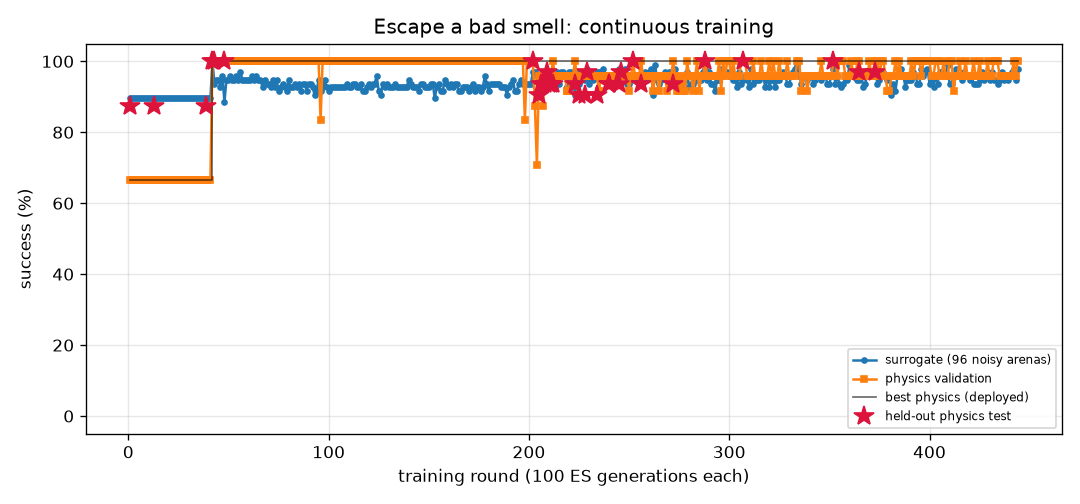
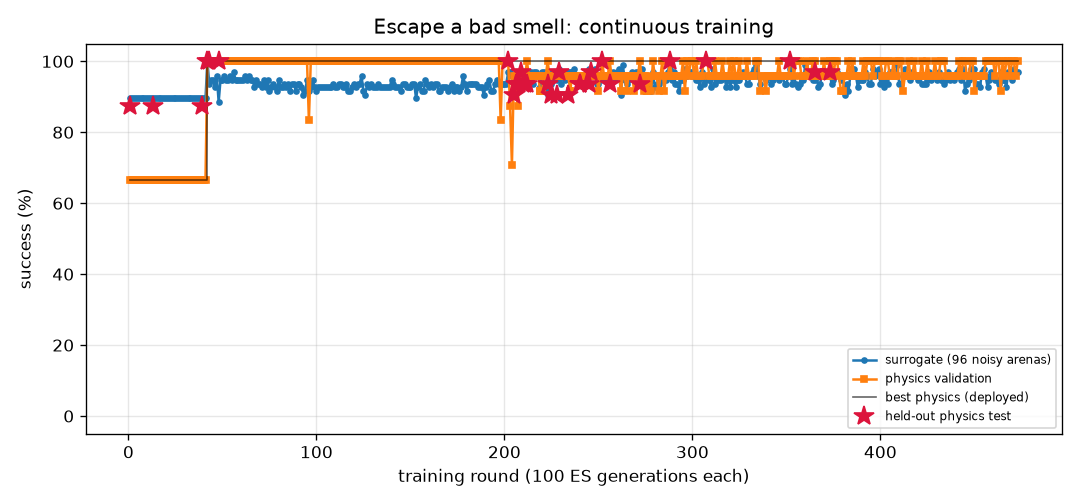
FlyLab: continuous training progress
- walk_forward: optimal, physics val 100% of 24, round 92
- turn: optimal, physics val 100% of 24, round 437
- goto: optimal, physics val 100% of 24, round 86
- odor_seek: optimal, physics val 100% of 24, round 94
- odor_avoid: optimal, physics val 100% of 24, round 473
- light_seek: optimal, physics val 100% of 24, round 275
- light_avoid: optimal, physics val 100% of 24, round 211

diff --git a/projects/09_flylab/training/odor_avoid/REPORT.md b/projects/09_flylab/training/odor_avoid/REPORT.md
@@ -1,14 +1,14 @@
 # Escape a bad smell (`odor_avoid`) — training report
 
-*Auto-generated by `train_brains.py`, last updated 2026-10-14T12:06:08.*
+*Auto-generated by `train_brains.py`, last updated 2026-10-14T21:05:49.*
 
 ![curve](curve.png)
 
 | | |
 |---|---|
-| rounds | 444 |
-| ES generations | 44400 |
-| physics runs | 7962 |
+| rounds | 473 |
+| ES generations | 47300 |
+| physics runs | 8658 |
 | status | **optimal** |
 | best brain | round 373: physics validation **100%** on 24 arenas, surrogate 97% |
 | held-out physics test | **97%** on 32 unseen arenas (95% CI 84%-99%) (errors: [62.0, 57.4, 62.6, 61.9, 59.0, 61.6, 56.5, 60.7, 31.7, 60.9, 63.1, 57.1, 61.1, 62.1, 61.5, 60.2, 62.2, 55.2, 62.1, 54.2, 61.3, 62.0, 58.0, 61.9, 59.8, 56.5, 56.3, 56.4, 56.3, 57.7, 61.9, 32.4]) |
@@ -17,35 +17,6 @@ Physics error per arena: mm gained away from source (> 6 without first approachi
 
 | round | level | gens | sigma | surrogate | physics val | val errors | test | note |
 |---:|---:|---:|---:|---:|---:|---|---:|---|
-| 405 | 3 | 40500 | 0.028 | 97% | 96% | [59.9, 56.1, 55.4, 56.2, 59.9, 61.3, 58.6, 41.0, 58.7, 53.1, 59.4, 60.6, 52.6, 56.7, 36.0, 60.3, 59.7, 60.4, 53.0, 52.2, 60.3, 59.4, 56.6, 49.8] |  | restart from best |
-| 406 | 3 | 40600 | 0.026 | 97% | 96% | [61.2, 60.7, 55.9, 60.5, 60.9, 59.6, 62.1, 13.8, 62.1, 37.7, 57.0, 61.3, 50.6, 55.2, 42.7, 60.0, 61.8, 46.0, 50.8, 59.4, 61.7, 39.8, 56.8, 45.9] |  |  |
-| 407 | 3 | 40700 | 0.026 | 96% | 100% | [60.7, 59.5, 56.0, 58.9, 60.8, 61.2, 61.8, 59.9, 61.9, 48.0, 49.0, 61.6, 49.7, 55.7, 36.5, 61.7, 61.7, 61.8, 48.9, 59.1, 61.9, 62.0, 58.9, 61.6] |  |  |
-| 408 | 3 | 40800 | 0.026 | 96% | 96% | [62.7, 60.1, 57.7, 60.9, 62.9, 61.8, 62.1, 42.1, 62.2, 39.6, 61.0, 61.4, 51.4, 58.6, 41.1, 62.3, 62.3, 62.7, 54.3, 57.1, 61.8, 61.4, 59.8, 37.7] |  |  |
-| 409 | 3 | 40900 | 0.026 | 99% | 96% | [61.4, 56.8, 56.1, 60.1, 62.2, 59.0, 61.7, 28.7, 61.5, 51.9, 56.2, 61.6, 52.2, 57.2, 24.4, 62.3, 62.0, 61.3, 51.4, 56.2, 62.1, 44.1, 60.7, 51.0] |  | restart from best |
-| 410 | 3 | 41000 | 0.026 | 94% | 100% | [61.6, 54.7, 56.6, 60.7, 61.9, 61.6, 61.8, 33.0, 61.6, 42.6, 58.1, 62.1, 54.6, 56.4, 43.6, 62.2, 61.8, 61.4, 54.2, 56.6, 61.6, 43.8, 60.8, 40.5] |  |  |
-| 411 | 3 | 41100 | 0.028 | 94% | 100% | [60.2, 55.1, 55.6, 59.2, 60.8, 60.6, 60.0, 44.3, 60.2, 46.5, 52.3, 60.5, 49.0, 55.8, 47.9, 61.2, 60.6, 60.5, 51.5, 54.7, 60.6, 52.3, 59.5, 56.6] |  |  |
-| 412 | 3 | 41200 | 0.028 | 96% | 92% | [61.1, 54.2, 55.8, 54.4, 61.0, 57.6, 60.4, 35.0, 61.1, 49.5, 20.5, 60.5, 35.1, 54.4, 18.0, 61.2, 60.8, 50.2, 45.8, 56.8, 60.6, 59.5, 58.7, 55.9] |  |  |
-| 413 | 3 | 41300 | 0.026 | 98% | 96% | [62.0, 60.6, 56.4, 61.2, 62.2, 60.9, 60.6, 49.2, 61.5, 49.6, 56.8, 61.3, 47.0, 55.6, 23.1, 62.5, 61.6, 61.5, 49.8, 59.8, 61.4, 62.4, 59.8, 61.5] |  | restart from best |
-| 414 | 3 | 41400 | 0.026 | 96% | 96% | [62.5, 61.0, 56.0, 61.5, 62.4, 61.6, 61.4, 40.8, 60.9, 56.8, 61.7, 61.9, 54.2, 53.7, 37.4, 60.6, 61.6, 60.6, 54.8, 59.9, 61.7, 56.2, 58.6, 50.1] |  |  |
-| 415 | 3 | 41500 | 0.026 | 96% | 100% | [62.4, 59.3, 56.7, 61.1, 62.0, 60.8, 61.9, 15.7, 61.9, 30.3, 60.5, 61.9, 49.7, 56.4, 42.9, 61.5, 61.6, 49.6, 55.2, 57.1, 61.7, 51.3, 59.5, 34.7] |  |  |
-| 416 | 3 | 41600 | 0.026 | 95% | 96% | [61.7, 56.7, 56.6, 59.7, 62.2, 62.2, 61.9, 37.9, 62.0, 61.3, 60.7, 61.7, 53.0, 56.2, 35.8, 60.9, 62.0, 60.6, 55.3, 56.9, 62.0, 62.2, 60.7, 59.8] |  |  |
-| 417 | 3 | 41700 | 0.027 | 97% | 96% | [60.3, 56.8, 55.8, 57.2, 59.2, 59.3, 60.5, 49.7, 59.4, 41.2, 52.1, 60.5, 49.5, 55.4, 37.3, 59.6, 60.6, 59.8, 53.1, 56.5, 60.9, 52.4, 57.6, 59.6] |  | restart from best |
-| 418 | 3 | 41800 | 0.026 | 96% | 100% | [63.5, 57.2, 57.4, 61.1, 63.0, 61.8, 61.9, 58.9, 60.6, 60.8, 61.9, 61.9, 55.0, 58.4, 46.3, 62.4, 62.0, 62.0, 55.4, 56.5, 62.5, 62.3, 57.7, 60.4] |  |  |
-| 419 | 3 | 41900 | 0.026 | 96% | 96% | [62.8, 61.6, 56.2, 59.9, 62.1, 62.1, 61.5, 26.3, 61.2, 45.1, 62.0, 62.2, 54.4, 56.3, 36.6, 62.6, 62.5, 60.3, 55.3, 60.4, 62.4, 61.3, 61.7, 44.1] |  |  |
-| 420 | 3 | 42000 | 0.026 | 95% | 96% | [63.5, 61.7, 56.9, 61.9, 60.5, 59.9, 61.7, 23.2, 61.0, 43.5, 60.3, 61.3, 51.9, 55.3, 29.7, 60.5, 61.8, 60.0, 55.1, 60.9, 61.9, 38.6, 61.2, 62.8] |  |  |
-| 421 | 3 | 42100 | 0.027 | 96% | 96% | [63.8, 61.5, 56.4, 61.8, 62.3, 62.5, 62.2, 60.6, 60.9, 61.6, 61.4, 62.5, 55.2, 56.4, 43.7, 62.0, 62.3, 62.3, 55.4, 61.7, 62.4, 60.6, 61.8, 62.9] |  | restart from best |
-| 422 | 3 | 42200 | 0.026 | 94% | 100% | [63.0, 61.1, 56.4, 55.8, 60.4, 60.0, 61.0, 60.6, 61.6, 57.2, 57.5, 61.6, 50.5, 54.1, 29.2, 62.1, 62.1, 62.0, 51.2, 59.3, 62.4, 61.2, 61.7, 62.8] |  |  |
-| 423 | 3 | 42300 | 0.028 | 94% | 96% | [63.5, 57.4, 56.3, 58.7, 60.8, 60.9, 62.3, 58.8, 59.9, 54.0, 58.5, 62.0, 53.5, 55.5, 42.1, 62.0, 61.8, 60.8, 55.3, 56.9, 61.8, 54.3, 58.4, 45.5] |  |  |
-| 424 | 3 | 42400 | 0.028 | 94% | 96% | [63.5, 57.4, 56.4, 60.8, 62.0, 61.0, 61.8, 42.2, 60.4, 56.1, 62.3, 62.2, 55.0, 56.4, 48.1, 62.3, 62.2, 60.5, 55.5, 56.1, 62.4, 61.9, 61.2, 50.1] |  |  |
-| 425 | 3 | 42500 | 0.028 | 95% | 100% | [63.4, 61.5, 56.2, 61.4, 61.3, 61.5, 61.5, 62.6, 61.2, 60.9, 35.1, 61.8, 49.3, 55.6, 15.8, 62.4, 62.0, 49.4, 51.5, 56.9, 62.0, 62.0, 61.4, 62.6] |  | restart from best |
-| 426 | 3 | 42600 | 0.026 | 97% | 96% | [62.1, 60.9, 56.3, 60.4, 61.6, 62.5, 60.7, 45.2, 61.9, 39.8, 61.0, 62.1, 51.8, 55.8, 37.5, 62.0, 61.8, 62.6, 55.2, 59.5, 61.8, 53.4, 59.9, 61.6] |  |  |
-| 427 | 3 | 42700 | 0.026 | 95% | 96% | [62.8, 60.0, 56.1, 61.1, 62.4, 61.2, 61.3, 1.5, 61.1, 57.3, 60.7, 61.9, 51.6, 56.2, 39.3, 61.7, 61.7, 61.3, 51.9, 56.9, 61.8, 39.0, 59.0, 14.9] |  |  |
-| 428 | 3 | 42800 | 0.027 | 96% | 96% | [63.6, 59.6, 55.7, 61.6, 62.9, 61.5, 61.5, 59.7, 61.7, 61.7, 62.0, 62.0, 52.1, 55.7, 42.7, 62.1, 61.8, 61.7, 55.0, 57.4, 62.2, 62.6, 61.6, 61.9] |  |  |
-| 429 | 3 | 42900 | 0.026 | 96% | 100% | [62.7, 58.7, 56.4, 61.2, 62.3, 62.0, 61.2, 40.6, 60.8, 58.1, 60.9, 61.7, 50.3, 56.0, 47.7, 62.5, 61.8, 62.1, 54.1, 57.1, 61.8, 60.6, 60.9, 61.1] |  | restart from best |
-| 430 | 3 | 43000 | 0.026 | 95% | 96% | [63.3, 57.6, 58.1, 58.7, 59.7, 48.7, 61.6, 32.0, 60.4, 50.6, 23.6, 60.6, 51.2, 55.6, 44.9, 58.1, 61.1, 49.9, 51.7, 56.5, 61.1, 53.2, 58.9, 33.4] |  |  |
-| 431 | 3 | 43100 | 0.027 | 97% | 96% | [61.2, 60.6, 56.4, 59.6, 60.7, 60.0, 60.1, 49.9, 61.3, 40.9, 56.5, 60.4, 52.5, 57.7, 25.7, 60.5, 60.9, 60.5, 54.3, 58.6, 61.2, 62.0, 59.2, 62.4] |  |  |
-| 432 | 3 | 43200 | 0.026 | 95% | 100% | [61.6, 60.4, 55.5, 55.4, 56.7, 45.2, 60.3, 57.7, 60.7, 53.0, 51.3, 60.4, 51.8, 56.3, 37.7, 56.0, 60.4, 52.9, 54.5, 58.5, 60.4, 57.0, 60.8, 61.3] |  |  |
-| 433 | 3 | 43300 | 0.027 | 95% | 100% | [61.0, 56.0, 55.7, 56.1, 60.8, 60.0, 60.2, 44.0, 60.5, 47.2, 60.4, 60.3, 54.2, 56.0, 29.0, 55.0, 61.1, 42.3, 54.4, 56.1, 60.2, 49.7, 60.1, 47.2] |  | restart from best |
 | 434 | 3 | 43400 | 0.026 | 94% | 100% | [63.4, 56.8, 57.3, 57.5, 62.3, 61.3, 61.8, 45.0, 60.8, 60.7, 61.6, 62.1, 54.7, 57.6, 45.7, 62.3, 62.2, 62.3, 54.7, 56.6, 62.1, 62.0, 57.8, 60.3] |  |  |
 | 435 | 3 | 43500 | 0.028 | 95% | 96% | [62.9, 57.5, 58.5, 60.4, 61.0, 61.1, 62.2, 42.4, 59.9, 37.9, 24.3, 60.6, 51.2, 55.4, 39.5, 61.5, 61.4, 59.4, 54.5, 57.9, 60.6, 62.1, 58.2, 62.7] |  |  |
 | 436 | 3 | 43600 | 0.027 | 97% | 96% | [62.5, 57.3, 57.4, 57.3, 60.1, 52.6, 61.2, 43.6, 59.0, 57.9, 23.7, 59.9, 49.4, 56.7, 37.6, 61.6, 59.3, 60.8, 50.4, 56.1, 59.8, 54.5, 57.4, 53.2] |  |  |
@@ -57,3 +28,32 @@ Physics error per arena: mm gained away from source (> 6 without first approachi
 | 442 | 3 | 44200 | 0.026 | 98% | 100% | [62.6, 59.0, 56.4, 59.3, 62.9, 61.8, 61.8, 39.2, 60.9, 59.9, 62.4, 62.0, 55.2, 56.4, 49.7, 62.4, 62.0, 61.6, 55.1, 56.4, 62.1, 62.0, 58.8, 53.2] |  |  |
 | 443 | 3 | 44300 | 0.025 | 95% | 96% | [63.1, 61.5, 56.3, 59.6, 62.9, 61.7, 61.4, 46.9, 61.3, 60.2, 61.8, 62.1, 51.5, 56.5, 45.9, 62.7, 62.5, 61.2, 54.8, 59.2, 62.1, 62.6, 59.2, 61.8] |  |  |
 | 444 | 3 | 44400 | 0.027 | 98% | 100% | [62.2, 60.5, 56.0, 60.9, 62.3, 61.9, 60.8, 49.0, 60.9, 59.3, 61.6, 61.6, 54.7, 55.7, 48.8, 62.4, 62.0, 62.3, 55.3, 56.8, 61.7, 62.0, 59.2, 59.7] |  |  |
+| 445 | 3 | 44500 | 0.025 | 92% | 100% | [60.1, 55.8, 57.2, 59.3, 61.0, 60.9, 59.9, 59.0, 59.3, 60.9, 61.6, 60.8, 54.8, 58.0, 50.8, 61.2, 60.9, 60.6, 55.1, 55.8, 60.9, 61.4, 56.8, 60.3] |  | restart from best |
+| 446 | 3 | 44600 | 0.026 | 94% | 96% | [63.4, 57.3, 57.8, 61.3, 62.1, 60.8, 60.7, 40.6, 61.1, 55.9, 61.9, 60.6, 51.9, 58.7, 41.4, 60.9, 61.5, 60.4, 55.3, 59.5, 61.4, 58.6, 59.7, 51.7] |  |  |
+| 447 | 3 | 44700 | 0.028 | 95% | 96% | [63.5, 61.7, 57.3, 56.3, 61.2, 61.6, 60.8, 52.9, 61.1, 59.8, 62.0, 61.1, 52.1, 56.3, 45.0, 62.6, 61.6, 62.5, 55.0, 58.9, 61.7, 61.6, 59.4, 62.6] |  |  |
+| 448 | 3 | 44800 | 0.027 | 98% | 100% | [63.0, 58.1, 58.4, 58.7, 61.8, 62.4, 61.5, 57.1, 60.0, 61.3, 62.0, 61.3, 54.6, 55.9, 43.4, 61.5, 61.6, 62.5, 55.3, 54.8, 61.1, 61.7, 57.7, 60.7] |  |  |
+| 449 | 3 | 44900 | 0.025 | 96% | 100% | [63.6, 59.6, 57.8, 59.4, 61.9, 63.0, 61.0, 59.1, 61.2, 62.6, 62.4, 61.8, 54.7, 58.8, 46.4, 62.5, 61.5, 62.4, 55.5, 58.4, 61.5, 62.9, 59.3, 60.8] |  | restart from best |
+| 450 | 3 | 45000 | 0.026 | 98% | 92% | [62.9, 57.3, 55.8, 58.5, 61.6, 57.3, 61.2, 2.8, 60.6, 9.6, 61.7, 61.8, 54.8, 55.7, 27.0, 61.5, 61.6, 60.6, 55.2, 55.6, 61.5, 42.2, 57.9, 4.8] |  |  |
+| 451 | 3 | 45100 | 0.025 | 94% | 96% | [63.1, 61.5, 55.8, 61.2, 61.7, 61.1, 61.6, 63.1, 61.0, 55.4, 47.3, 62.1, 47.3, 53.9, 31.0, 61.0, 61.6, 60.3, 53.7, 61.4, 62.1, 63.0, 59.7, 63.1] |  |  |
+| 452 | 3 | 45200 | 0.028 | 94% | 96% | [62.6, 55.9, 57.7, 56.7, 60.9, 61.2, 60.7, 52.1, 59.4, 50.4, 60.1, 59.9, 52.7, 55.4, 25.3, 60.6, 60.8, 60.5, 54.1, 57.2, 60.1, 44.3, 58.0, 51.8] |  |  |
+| 453 | 3 | 45300 | 0.028 | 93% | 96% | [63.4, 60.4, 58.4, 57.9, 60.6, 62.2, 61.4, 58.0, 60.4, 57.7, 58.7, 59.7, 50.8, 57.6, 40.3, 62.1, 60.5, 61.8, 54.8, 57.5, 59.9, 59.0, 57.6, 61.7] |  | restart from best |
+| 454 | 3 | 45400 | 0.026 | 97% | 96% | [64.0, 61.2, 56.3, 58.7, 62.2, 62.7, 62.9, 60.5, 60.9, 61.9, 62.2, 62.1, 55.0, 56.3, 38.5, 62.0, 62.3, 61.9, 56.0, 57.5, 62.5, 62.2, 56.7, 60.7] |  |  |
+| 455 | 3 | 45500 | 0.026 | 98% | 96% | [62.9, 60.6, 56.2, 58.8, 61.8, 61.1, 61.4, 32.2, 60.8, 45.0, 61.7, 62.2, 55.0, 55.8, 46.2, 62.2, 62.1, 39.5, 55.1, 60.4, 61.8, 36.3, 58.5, 45.2] |  |  |
+| 456 | 3 | 45600 | 0.025 | 96% | 100% | [62.2, 60.1, 56.7, 60.6, 62.0, 60.1, 61.6, 54.4, 62.0, 37.0, 61.1, 61.9, 55.0, 56.5, 50.4, 62.5, 62.1, 62.2, 55.4, 56.8, 62.3, 62.2, 60.7, 61.8] |  |  |
+| 457 | 3 | 45700 | 0.026 | 93% | 100% | [60.8, 59.3, 52.1, 58.4, 60.1, 60.8, 61.0, 59.1, 61.4, 59.3, 55.1, 59.1, 24.3, 49.3, 40.9, 56.9, 37.9, 55.6, 44.1, 59.1, 54.9, 60.5, 58.7, 59.2] |  | restart from best |
+| 458 | 3 | 45800 | 0.026 | 95% | 100% | [61.6, 60.3, 56.8, 60.7, 61.6, 60.4, 60.5, 59.8, 61.6, 52.8, 60.5, 61.3, 54.6, 57.6, 50.6, 61.5, 61.6, 61.7, 54.9, 60.0, 61.9, 61.5, 56.9, 61.9] |  |  |
+| 459 | 3 | 45900 | 0.027 | 97% | 100% | [63.2, 61.4, 57.9, 61.7, 61.6, 60.8, 62.0, 53.1, 60.7, 61.1, 62.4, 62.1, 54.8, 55.8, 42.5, 61.8, 62.2, 62.5, 55.1, 60.1, 62.0, 60.0, 61.5, 59.5] |  |  |
+| 460 | 3 | 46000 | 0.026 | 96% | 100% | [62.5, 61.1, 56.2, 57.1, 62.4, 62.2, 61.5, 54.2, 62.2, 52.5, 57.8, 61.4, 51.1, 55.0, 39.3, 60.9, 62.2, 61.5, 54.7, 59.6, 61.8, 62.1, 61.4, 56.7] |  |  |
+| 461 | 3 | 46100 | 0.026 | 95% | 96% | [62.2, 60.1, 56.0, 61.3, 62.5, 61.7, 61.8, 60.8, 62.2, 61.7, 61.9, 62.5, 55.0, 56.0, 48.9, 63.0, 62.5, 62.8, 55.5, 56.6, 62.5, 61.6, 60.4, 62.5] |  | restart from best |
+| 462 | 3 | 46200 | 0.026 | 95% | 100% | [60.6, 56.2, 57.7, 59.7, 61.9, 59.6, 60.5, 39.5, 61.0, 61.1, 60.1, 61.2, 54.4, 57.9, 48.0, 61.0, 61.9, 61.7, 54.2, 55.9, 60.6, 60.8, 58.3, 38.7] |  |  |
+| 463 | 3 | 46300 | 0.027 | 94% | 100% | [60.4, 53.3, 55.8, 53.7, 59.2, 59.5, 60.1, 56.7, 60.1, 59.7, 56.5, 60.6, 49.2, 53.2, 29.4, 56.1, 60.8, 58.4, 48.9, 52.4, 61.0, 58.4, 57.8, 57.1] |  |  |
+| 464 | 3 | 46400 | 0.028 | 97% | 92% | [60.3, 59.0, 55.9, 59.6, 60.7, 62.1, 61.1, 39.1, 60.9, 61.5, 60.2, 61.0, 50.5, 56.0, 44.0, 61.9, 61.5, 62.1, 54.6, 57.9, 61.3, 60.4, 56.8, 60.4] |  |  |
+| 465 | 3 | 46500 | 0.026 | 95% | 100% | [60.1, 58.1, 55.3, 56.4, 58.2, 57.5, 60.5, 58.8, 60.2, 55.7, 27.3, 60.4, 46.1, 52.8, 35.9, 60.1, 60.2, 56.4, 49.0, 56.9, 60.5, 58.3, 55.0, 58.5] |  | restart from best |
+| 466 | 3 | 46600 | 0.026 | 95% | 96% | [62.6, 61.2, 55.8, 61.5, 61.8, 60.4, 60.8, 43.0, 61.1, 44.4, 61.9, 61.9, 54.9, 56.0, 41.0, 61.8, 61.9, 61.7, 55.1, 60.1, 62.0, 50.5, 59.3, 35.0] |  |  |
+| 467 | 3 | 46700 | 0.027 | 93% | 100% | [62.7, 58.2, 55.9, 60.5, 62.3, 61.6, 61.2, 60.9, 60.5, 60.9, 62.0, 62.0, 55.0, 56.6, 52.3, 61.8, 62.3, 61.3, 55.6, 56.7, 62.3, 60.9, 57.9, 61.7] |  |  |
+| 468 | 3 | 46800 | 0.028 | 97% | 100% | [63.7, 61.2, 56.2, 61.4, 62.2, 59.4, 62.0, 34.0, 59.9, 56.5, 61.4, 62.1, 52.4, 53.8, 46.1, 60.6, 61.9, 59.0, 54.9, 59.8, 62.3, 36.1, 58.5, 50.6] |  |  |
+| 469 | 3 | 46900 | 0.026 | 96% | 96% | [63.4, 58.4, 58.6, 61.2, 62.0, 60.6, 61.8, 55.5, 59.9, 58.6, 61.8, 61.0, 54.3, 55.5, 41.1, 60.8, 61.6, 60.6, 55.1, 60.0, 61.1, 59.9, 60.9, 54.7] |  | restart from best |
+| 470 | 3 | 47000 | 0.026 | 95% | 100% | [63.5, 59.0, 56.1, 59.1, 61.9, 62.1, 61.7, 47.9, 60.7, 58.0, 62.0, 62.4, 54.2, 56.7, 43.4, 60.7, 62.4, 60.7, 55.4, 60.0, 62.0, 46.6, 56.0, 38.0] |  |  |
+| 471 | 3 | 47100 | 0.027 | 98% | 100% | [63.7, 61.2, 56.0, 58.7, 61.6, 62.1, 62.2, 57.3, 60.8, 60.6, 62.6, 61.9, 55.1, 58.1, 41.3, 62.5, 61.8, 62.2, 55.3, 56.0, 61.9, 60.6, 58.8, 54.7] |  |  |
+| 472 | 3 | 47200 | 0.025 | 97% | 96% | [63.1, 61.7, 53.0, 61.4, 62.1, 62.8, 61.8, 63.5, 61.6, 62.9, 31.6, 61.4, 50.5, 54.9, 40.4, 62.4, 61.7, 62.5, 53.3, 61.1, 61.3, 63.3, 61.6, 63.6] |  |  |
+| 473 | 3 | 47300 | 0.026 | 97% | 100% | [62.5, 61.0, 55.6, 60.5, 61.9, 62.6, 62.3, 63.2, 62.4, 62.5, 53.8, 61.6, 47.0, 55.8, 34.8, 62.2, 61.9, 57.3, 50.3, 60.8, 61.8, 62.8, 60.5, 63.1] |  | restart from best |

diff --git a/projects/09_flylab/training/turn/REPORT.md b/projects/09_flylab/training/turn/REPORT.md
@@ -1,14 +1,14 @@
 # Turn in place (`turn`) — training report
 
-*Auto-generated by `train_brains.py`, last updated 2026-10-14T12:07:45.*
+*Auto-generated by `train_brains.py`, last updated 2026-10-14T21:08:26.*
 
 ![curve](curve.png)
 
 | | |
 |---|---|
-| rounds | 409 |
-| ES generations | 40900 |
-| physics runs | 10062 |
+| rounds | 437 |
+| ES generations | 43700 |
+| physics runs | 10734 |
 | status | **optimal** |
 | best brain | round 80: physics validation **100%** on 24 arenas, surrogate 100% |
 | held-out physics test | **97%** on 32 unseen arenas (95% CI 84%-99%) (errors: [1.6, 3.3, 6.3, 3.7, 1.1, 0.4, 2.4, 2.9, 0.1, 2.6, 0.5, 2.7, 1.5, 3.1, 4.5, 0.2, 0.5, 1.1, 2.0, 4.4, 2.8, 3.2, 0.3, 2.2, 0.5, 3.0, 0.3, 5.4, 0.4, 1.0, 4.7, 10.7]) |
@@ -17,34 +17,6 @@ Physics error per arena: deg from target heading (< 20 = success).
 
 | round | level | gens | sigma | surrogate | physics val | val errors | test | note |
 |---:|---:|---:|---:|---:|---:|---|---:|---|
-| 370 | 3 | 37000 | 0.024 | 100% | 96% | [6.6, 3.5, 13.4, 0.9, 1.9, 0.1, 4.8, 8.0, 6.6, 1.1, 3.6, 2.5, 1.4, 1.9, 5.0, 2.5, 1.9, 1.4, 2.4, 1.4, 3.3, 2.7, 4.5, 2.1] |  |  |
-| 371 | 3 | 37100 | 0.024 | 100% | 92% | [2.4, 4.6, 3.4, 1.7, 1.9, 2.9, 4.3, 4.9, 3.6, 0.5, 4.1, 1.5, 1.6, 2.4, 3.2, 3.5, 1.6, 2.6, 5.5, 1.4, 3.9, 1.1, 8.1, 4.9] |  |  |
-| 372 | 3 | 37200 | 0.024 | 99% | 79% | [2.2, 0.5, 5.0, 0.1, 1.5, 0.5, 6.1, 9.9, 5.6, 14.5, 4.6, 0.3, 0.1, 2.0, 5.1, 1.5, 0.1, 3.3, 3.3, 2.1, 3.3, 3.0, 6.0, 4.4] |  | restart from best |
-| 373 | 3 | 37300 | 0.024 | 99% | 75% | [5.5, 3.8, 1.4, 1.9, 0.4, 0.4, 7.8, 8.5, 8.4, 0.0, 6.0, 1.9, 0.6, 0.7, 7.0, 4.2, 0.9, 4.6, 3.4, 2.1, 3.3, 2.1, 7.3, 6.8] |  |  |
-| 374 | 3 | 37400 | 0.025 | 100% | 83% | [1.1, 7.0, 9.1, 4.1, 4.3, 114.4, 8.3, 11.0, 11.0, 1.2, 8.0, 1.5, 4.2, 1.5, 6.9, 4.7, 2.2, 5.6, 4.5, 3.7, 1.3, 2.2, 8.6, 9.4] |  |  |
-| 375 | 3 | 37500 | 0.024 | 99% | 92% | [7.5, 5.7, 1.9, 1.9, 0.2, 2.7, 5.0, 1.3, 5.3, 1.1, 3.0, 0.3, 2.3, 1.6, 4.9, 2.1, 0.2, 1.3, 2.3, 3.9, 4.6, 1.8, 3.2, 5.7] |  |  |
-| 376 | 3 | 37600 | 0.025 | 99% | 92% | [2.3, 3.5, 7.5, 2.4, 1.9, 1.0, 9.1, 10.8, 7.7, 3.5, 6.4, 3.7, 2.5, 1.1, 4.8, 5.7, 3.8, 3.2, 5.5, 4.7, 2.5, 2.8, 7.2, 6.2] |  | restart from best |
-| 377 | 3 | 37700 | 0.024 | 99% | 58% | [5.9, 7.9, 4.6, 3.4, 3.8, 5.2, 3.5, 3.2, 4.0, 0.2, 1.9, 1.9, 1.6, 2.4, 2.7, 2.2, 2.9, 0.3, 2.0, 2.4, 7.6, 1.1, 2.8, 3.0] |  |  |
-| 378 | 3 | 37800 | 0.025 | 100% | 96% | [6.5, 10.2, 4.0, 2.6, 3.0, 0.2, 3.7, 2.3, 2.7, 2.7, 2.6, 3.0, 1.3, 4.3, 2.5, 1.8, 2.8, 0.0, 2.7, 2.2, 4.3, 1.5, 3.2, 6.0] |  |  |
-| 379 | 3 | 37900 | 0.024 | 99% | 83% | [0.8, 1.8, 3.9, 2.7, 4.2, 1.5, 5.5, 8.9, 4.1, 0.4, 5.2, 1.9, 0.8, 2.1, 4.5, 1.3, 1.3, 1.5, 3.5, 2.7, 5.2, 2.4, 5.6, 5.3] |  |  |
-| 380 | 3 | 38000 | 0.025 | 99% | 79% | [2.8, 2.7, 5.5, 0.2, 1.1, 0.5, 7.3, 5.8, 7.2, 0.1, 4.4, 0.7, 1.6, 2.5, 5.3, 1.0, 0.8, 2.6, 0.9, 1.7, 1.5, 0.5, 6.2, 5.3] |  | restart from best |
-| 381 | 3 | 38100 | 0.024 | 100% | 79% | [7.4, 5.5, 7.9, 2.1, 2.3, 2.7, 5.5, 0.2, 4.5, 0.6, 3.7, 1.1, 0.1, 0.8, 3.7, 1.1, 2.0, 0.7, 0.6, 1.0, 6.0, 1.2, 5.6, 1.7] |  |  |
-| 382 | 3 | 38200 | 0.024 | 99% | 79% | [4.8, 2.8, 4.9, 0.4, 0.5, 1.4, 5.6, 5.4, 4.8, 1.3, 4.6, 1.4, 1.1, 3.4, 3.8, 1.0, 1.4, 0.9, 1.0, 0.1, 6.8, 0.6, 3.3, 3.8] |  |  |
-| 383 | 3 | 38300 | 0.025 | 100% | 83% | [0.7, 5.2, 9.2, 1.1, 4.5, 0.6, 6.6, 10.3, 9.6, 0.8, 5.8, 2.4, 1.5, 0.3, 5.9, 3.6, 2.4, 4.0, 4.5, 3.4, 3.5, 3.9, 8.9, 6.2] |  |  |
-| 384 | 3 | 38400 | 0.024 | 100% | 96% | [2.2, 2.1, 2.1, 2.4, 0.7, 5.0, 6.6, 9.0, 6.4, 12.1, 3.9, 3.4, 1.2, 0.2, 2.6, 2.2, 3.3, 3.1, 1.8, 10.7, 3.2, 1.0, 6.9, 3.1] |  | restart from best |
-| 385 | 3 | 38500 | 0.024 | 99% | 79% | [5.1, 5.6, 0.5, 3.4, 1.6, 0.4, 3.6, 3.6, 3.4, 0.5, 4.2, 0.1, 2.4, 2.2, 4.0, 0.2, 0.2, 1.4, 0.5, 0.5, 6.0, 0.3, 3.9, 3.9] |  |  |
-| 386 | 3 | 38600 | 0.025 | 98% | 83% | [1.9, 1.9, 0.1, 3.3, 2.5, 4.4, 5.7, 3.6, 5.7, 0.0, 5.7, 0.9, 2.1, 1.0, 7.2, 4.4, 0.0, 1.7, 3.2, 4.3, 5.7, 0.9, 3.9, 5.2] |  |  |
-| 387 | 3 | 38700 | 0.025 | 98% | 75% | [5.6, 1.1, 5.5, 0.2, 2.1, 3.4, 7.9, 2.3, 8.3, 2.4, 5.3, 1.0, 2.4, 1.1, 6.5, 0.8, 1.4, 1.7, 2.3, 3.3, 6.9, 0.4, 6.6, 2.8] |  |  |
-| 388 | 3 | 38800 | 0.025 | 99% | 92% | [2.0, 2.7, 1.6, 0.9, 1.3, 2.7, 6.1, 7.1, 5.9, 1.3, 5.2, 2.2, 2.8, 0.8, 4.5, 0.5, 1.8, 0.6, 1.0, 0.7, 1.2, 1.9, 6.3, 2.6] |  | restart from best |
-| 389 | 3 | 38900 | 0.024 | 100% | 83% | [3.9, 3.2, 2.3, 1.7, 2.6, 2.3, 4.4, 0.4, 4.6, 14.7, 4.3, 1.3, 1.4, 3.0, 4.8, 0.2, 0.7, 2.2, 0.1, 1.5, 3.9, 0.9, 5.6, 6.0] |  |  |
-| 390 | 3 | 39000 | 0.024 | 100% | 92% | [6.1, 8.9, 1.9, 4.7, 6.2, 1.2, 2.4, 2.4, 1.9, 3.3, 0.7, 3.6, 4.4, 2.3, 2.5, 1.6, 3.2, 0.9, 1.9, 1.8, 4.3, 1.0, 0.7, 3.2] |  |  |
-| 391 | 3 | 39100 | 0.024 | 100% | 75% | [5.1, 5.5, 11.6, 0.5, 0.4, 5.5, 8.6, 7.3, 10.2, 2.9, 6.4, 4.0, 1.2, 1.0, 5.0, 4.4, 4.5, 6.3, 4.1, 4.1, 1.4, 3.4, 9.8, 10.3] |  |  |
-| 392 | 3 | 39200 | 0.024 | 98% | 75% | [4.2, 6.6, 10.3, 1.7, 1.1, 0.6, 9.0, 6.3, 10.5, 2.7, 7.2, 3.6, 1.9, 0.5, 6.6, 15.1, 3.0, 6.1, 15.3, 7.6, 4.6, 2.8, 9.6, 6.9] |  | restart from best |
-| 393 | 3 | 39300 | 0.024 | 100% | 92% | [3.8, 5.1, 4.6, 3.3, 0.0, 18.4, 4.6, 4.4, 6.1, 0.4, 5.1, 0.1, 1.4, 1.4, 3.9, 1.1, 0.1, 1.5, 2.3, 1.3, 5.6, 0.9, 5.6, 1.0] |  |  |
-| 394 | 3 | 39400 | 0.024 | 99% | 75% | [1.2, 3.3, 4.1, 0.3, 0.8, 4.1, 3.1, 6.8, 7.1, 1.9, 5.8, 2.5, 0.5, 0.1, 5.6, 0.1, 1.7, 2.5, 1.2, 1.0, 6.9, 1.4, 4.3, 4.9] |  |  |
-| 395 | 3 | 39500 | 0.025 | 100% | 96% | [2.9, 1.1, 1.8, 1.3, 0.5, 1.6, 6.7, 8.0, 6.2, 2.5, 4.7, 3.2, 0.6, 1.0, 5.1, 1.7, 3.3, 3.5, 1.8, 2.2, 2.2, 3.1, 7.7, 9.3] |  |  |
-| 396 | 3 | 39600 | 0.024 | 99% | 79% | [4.2, 7.3, 11.2, 4.5, 15.3, 0.5, 8.5, 10.2, 8.6, 2.2, 5.9, 4.0, 3.7, 1.1, 5.5, 4.2, 4.5, 6.3, 5.1, 4.2, 3.8, 3.7, 8.9, 10.8] |  | restart from best |
-| 397 | 3 | 39700 | 0.024 | 99% | 83% | [2.4, 13.0, 4.0, 0.4, 14.8, 3.8, 7.7, 8.6, 6.5, 14.7, 5.7, 2.0, 0.2, 0.7, 4.1, 1.7, 2.2, 1.9, 1.7, 1.9, 1.7, 0.8, 7.7, 8.4] |  |  |
 | 398 | 3 | 39800 | 0.025 | 98% | 75% | [10.8, 9.0, 0.8, 1.8, 1.9, 2.1, 4.3, 9.9, 5.3, 0.1, 3.4, 2.5, 0.0, 5.2, 3.6, 1.3, 4.0, 0.5, 1.4, 0.7, 9.6, 1.0, 1.4, 1.7] |  |  |
 | 399 | 3 | 39900 | 0.025 | 100% | 79% | [4.5, 8.6, 1.7, 2.6, 1.2, 1.8, 3.2, 6.3, 5.0, 1.2, 3.4, 0.7, 0.1, 1.1, 2.3, 0.1, 0.8, 0.8, 0.2, 1.5, 3.6, 0.8, 5.5, 1.0] |  |  |
 | 400 | 3 | 40000 | 0.024 | 100% | 83% | [7.3, 10.7, 0.9, 2.2, 2.5, 4.9, 2.6, 1.6, 1.5, 0.5, 3.1, 2.3, 3.6, 1.0, 3.4, 0.1, 2.9, 0.4, 1.3, 0.2, 7.3, 1.4, 1.8, 3.4] |  | restart from best |
@@ -57,3 +29,31 @@ Physics error per arena: deg from target heading (< 20 = success).
 | 407 | 3 | 40700 | 0.024 | 99% | 92% | [9.3, 10.9, 7.1, 6.7, 6.0, 1.5, 0.1, 5.4, 0.8, 3.7, 0.2, 4.9, 5.0, 4.3, 0.9, 3.9, 4.9, 6.6, 6.9, 6.1, 6.0, 1.7, 1.4, 10.1] |  |  |
 | 408 | 3 | 40800 | 0.025 | 100% | 96% | [5.4, 8.8, 4.6, 3.4, 3.5, 0.2, 3.8, 1.2, 3.9, 0.9, 3.5, 2.5, 3.6, 2.8, 1.3, 1.2, 2.3, 0.0, 1.4, 1.7, 8.1, 2.3, 5.9, 7.0] |  | restart from best |
 | 409 | 3 | 40900 | 0.024 | 100% | 67% | [5.7, 2.0, 1.2, 0.6, 1.7, 2.3, 5.3, 2.7, 5.7, 14.7, 4.7, 0.3, 0.1, 4.0, 4.2, 0.7, 0.2, 3.0, 1.9, 0.1, 6.2, 1.1, 4.7, 9.1] |  |  |
+| 410 | 3 | 41000 | 0.024 | 99% | 88% | [8.1, 9.9, 2.3, 2.7, 3.9, 3.7, 1.7, 0.8, 3.6, 2.0, 2.1, 2.9, 3.1, 4.9, 2.2, 0.4, 2.6, 0.6, 0.2, 0.4, 7.5, 1.5, 0.5, 2.4] |  |  |
+| 411 | 3 | 41100 | 0.025 | 100% | 96% | [7.5, 9.8, 11.5, 2.4, 5.1, 2.9, 3.9, 3.3, 3.1, 2.4, 3.9, 4.1, 2.0, 6.7, 2.5, 4.8, 4.0, 1.3, 2.3, 1.6, 7.3, 0.4, 3.8, 8.2] |  |  |
+| 412 | 3 | 41200 | 0.024 | 99% | 92% | [7.3, 7.8, 0.2, 3.5, 2.1, 1.7, 4.1, 0.6, 4.2, 1.3, 3.4, 2.0, 2.0, 1.9, 3.2, 1.5, 2.2, 0.9, 0.8, 1.1, 6.2, 0.3, 3.9, 2.1] |  | restart from best |
+| 413 | 3 | 41300 | 0.024 | 99% | 83% | [6.0, 7.6, 5.3, 2.9, 2.0, 3.6, 3.0, 2.9, 3.0, 1.4, 2.9, 1.3, 2.5, 4.4, 2.7, 0.4, 1.5, 0.7, 0.8, 0.3, 7.4, 1.2, 3.9, 0.4] |  |  |
+| 414 | 3 | 41400 | 0.025 | 99% | 100% | [3.8, 7.2, 0.9, 4.2, 2.5, 0.3, 3.3, 3.1, 4.0, 0.6, 3.1, 0.1, 2.8, 2.4, 2.1, 1.2, 0.4, 0.6, 0.4, 1.0, 5.3, 1.0, 4.4, 0.5] |  |  |
+| 415 | 3 | 41500 | 0.025 | 100% | 100% | [5.1, 8.7, 2.3, 0.6, 2.1, 0.9, 1.4, 0.1, 2.2, 2.1, 2.1, 1.3, 0.1, 4.1, 0.4, 1.8, 1.3, 1.3, 2.3, 2.1, 4.3, 2.0, 2.1, 1.0] |  |  |
+| 416 | 3 | 41600 | 0.024 | 100% | 83% | [5.6, 5.2, 3.7, 2.6, 2.3, 4.1, 4.7, 7.7, 5.8, 13.4, 3.4, 0.8, 1.3, 3.7, 4.8, 1.9, 0.9, 1.4, 1.8, 1.3, 4.7, 1.3, 4.9, 5.7] |  | restart from best |
+| 417 | 3 | 41700 | 0.024 | 99% | 92% | [4.7, 6.0, 10.0, 3.3, 0.8, 2.3, 4.7, 5.0, 4.1, 0.2, 4.5, 0.3, 0.7, 3.7, 2.8, 1.3, 1.1, 0.5, 3.3, 1.6, 7.5, 2.4, 3.8, 4.0] |  |  |
+| 418 | 3 | 41800 | 0.025 | 98% | 83% | [7.3, 8.5, 8.0, 3.4, 2.6, 1.0, 5.0, 0.5, 4.1, 1.7, 2.9, 1.0, 2.7, 2.0, 2.5, 1.2, 1.0, 0.2, 0.8, 1.2, 6.7, 0.7, 3.7, 1.6] |  |  |
+| 419 | 3 | 41900 | 0.025 | 100% | 96% | [10.7, 6.9, 5.4, 2.2, 17.2, 4.7, 13.3, 4.5, 6.1, 4.0, 4.9, 6.3, 2.6, 3.1, 4.8, 5.1, 6.4, 15.2, 4.7, 5.5, 2.1, 3.5, 7.5, 7.5] |  |  |
+| 420 | 3 | 42000 | 0.024 | 99% | 92% | [1.2, 0.1, 2.0, 0.8, 0.1, 2.6, 5.5, 8.4, 4.4, 3.2, 4.6, 2.4, 0.3, 0.4, 3.5, 1.9, 2.6, 2.6, 1.6, 3.0, 2.6, 2.5, 6.7, 4.3] |  | restart from best |
+| 421 | 3 | 42100 | 0.024 | 99% | 67% | [1.6, 5.6, 6.2, 2.0, 1.5, 3.4, 5.3, 2.3, 4.2, 0.9, 4.5, 0.3, 0.4, 0.6, 4.6, 0.5, 0.8, 1.4, 1.4, 0.8, 5.5, 0.4, 5.3, 5.2] |  |  |
+| 422 | 3 | 42200 | 0.025 | 100% | 92% | [9.6, 4.8, 9.4, 1.4, 17.2, 4.0, 7.4, 5.4, 8.5, 15.9, 4.9, 4.4, 2.1, 0.4, 4.2, 6.4, 4.4, 13.9, 6.2, 15.0, 3.0, 3.0, 7.5, 5.2] |  |  |
+| 423 | 3 | 42300 | 0.024 | 99% | 88% | [4.7, 3.9, 4.5, 2.2, 1.6, 0.1, 4.9, 5.7, 3.6, 0.0, 4.3, 0.8, 2.4, 1.4, 4.1, 2.5, 0.8, 1.4, 3.5, 4.8, 3.5, 1.7, 4.5, 4.4] |  |  |
+| 424 | 3 | 42400 | 0.025 | 98% | 88% | [4.8, 8.0, 12.7, 1.1, 15.0, 1.1, 8.3, 10.7, 9.1, 3.3, 4.9, 4.9, 4.5, 1.8, 4.8, 18.4, 5.2, 3.9, 5.3, 4.9, 2.7, 1.9, 9.5, 7.6] |  | restart from best |
+| 425 | 3 | 42500 | 0.024 | 100% | 92% | [0.2, 5.1, 0.2, 0.6, 14.4, 11.4, 5.9, 7.1, 6.0, 0.3, 4.5, 0.1, 0.1, 2.1, 2.0, 1.2, 0.1, 1.9, 0.2, 3.3, 5.5, 0.6, 5.8, 1.5] |  |  |
+| 426 | 3 | 42600 | 0.024 | 99% | 96% | [7.6, 10.4, 2.8, 4.4, 1.6, 4.8, 1.9, 0.9, 1.1, 0.8, 0.6, 2.5, 5.3, 6.2, 1.4, 2.1, 2.6, 1.5, 2.4, 3.6, 5.1, 1.6, 0.7, 1.0] |  |  |
+| 427 | 3 | 42700 | 0.025 | 99% | 96% | [9.3, 8.7, 6.9, 4.7, 2.4, 1.1, 1.3, 3.9, 0.5, 4.0, 2.7, 3.5, 3.1, 5.6, 0.8, 1.1, 3.1, 4.8, 1.6, 4.4, 8.2, 0.5, 1.3, 5.7] |  |  |
+| 428 | 3 | 42800 | 0.025 | 100% | 96% | [6.6, 9.1, 4.8, 0.7, 3.4, 0.1, 1.8, 1.0, 3.6, 0.9, 4.3, 2.1, 2.5, 4.2, 2.3, 2.0, 2.3, 2.9, 2.1, 1.0, 6.7, 0.8, 4.0, 2.7] |  | restart from best |
+| 429 | 3 | 42900 | 0.024 | 98% | 79% | [7.2, 8.9, 7.3, 1.9, 5.8, 4.4, 1.4, 2.7, 2.3, 0.7, 3.5, 1.3, 0.8, 5.2, 3.2, 2.1, 1.6, 0.1, 1.9, 0.7, 5.6, 0.3, 4.1, 2.9] |  |  |
+| 430 | 3 | 43000 | 0.025 | 99% | 83% | [4.6, 0.5, 6.8, 0.3, 6.4, 3.5, 6.9, 5.5, 4.7, 1.0, 5.5, 0.1, 2.0, 1.6, 4.4, 2.5, 0.0, 3.4, 3.3, 1.6, 7.4, 0.9, 6.8, 8.0] |  |  |
+| 431 | 3 | 43100 | 0.025 | 99% | 79% | [6.8, 4.2, 2.5, 1.4, 1.9, 0.5, 5.9, 1.1, 8.3, 0.8, 5.9, 0.5, 1.9, 1.5, 5.6, 1.6, 0.0, 1.2, 1.7, 1.8, 5.1, 1.2, 4.3, 4.8] |  |  |
+| 432 | 3 | 43200 | 0.025 | 100% | 96% | [9.2, 12.1, 0.5, 5.7, 3.6, 2.7, 2.0, 4.7, 1.4, 3.0, 0.8, 5.2, 2.0, 3.5, 1.3, 3.6, 4.3, 1.0, 2.1, 1.3, 7.0, 3.1, 1.6, 0.3] |  | restart from best |
+| 433 | 3 | 43300 | 0.024 | 100% | 88% | [7.8, 9.1, 3.4, 2.4, 0.3, 0.7, 2.4, 0.2, 1.2, 1.3, 2.1, 1.7, 3.0, 3.0, 0.6, 2.9, 2.1, 0.5, 2.7, 1.4, 4.2, 1.0, 2.8, 0.1] |  |  |
+| 434 | 3 | 43400 | 0.024 | 98% | 62% | [4.1, 0.1, 5.9, 1.8, 7.5, 3.4, 6.5, 10.3, 7.7, 0.6, 6.3, 1.4, 2.8, 2.0, 4.9, 0.9, 1.8, 2.9, 0.9, 0.8, 5.9, 5.9, 5.3, 6.5] |  |  |
+| 435 | 3 | 43500 | 0.025 | 100% | 75% | [0.6, 0.1, 5.5, 0.4, 3.4, 115.6, 5.2, 7.2, 7.0, 0.9, 5.7, 3.0, 0.2, 1.0, 4.0, 3.1, 3.1, 2.4, 2.6, 3.8, 2.0, 1.6, 6.1, 6.2] |  |  |
+| 436 | 3 | 43600 | 0.024 | 100% | 83% | [1.9, 0.2, 3.5, 1.8, 4.5, 4.1, 6.0, 8.7, 6.9, 0.4, 4.2, 2.3, 0.8, 0.5, 5.4, 1.3, 2.1, 1.7, 2.9, 1.1, 0.9, 3.0, 5.9, 4.3] |  | restart from best |
+| 437 | 3 | 43700 | 0.024 | 100% | 79% | [3.5, 5.4, 1.9, 1.2, 2.9, 0.1, 6.3, 5.4, 4.6, 1.3, 3.9, 0.6, 0.4, 3.0, 3.3, 0.2, 0.7, 0.4, 0.8, 2.2, 2.9, 1.1, 5.7, 5.2] |  |  |

diff --git a/projects/09_flylab/training/light_avoid/REPORT.md b/projects/09_flylab/training/light_avoid/REPORT.md
@@ -1,14 +1,14 @@
 # Hide from light (`light_avoid`) — training report
 
-*Auto-generated by `train_brains.py`, last updated 2026-10-13T16:19:41.*
+*Auto-generated by `train_brains.py`, last updated 2026-10-14T13:09:53.*
 
 ![curve](curve.png)
 
 | | |
 |---|---|
-| rounds | 203 |
-| ES generations | 20300 |
-| physics runs | 5144 |
+| rounds | 211 |
+| ES generations | 21100 |
+| physics runs | 5336 |
 | status | **optimal** |
 | best brain | round 159: physics validation **100%** on 24 arenas, surrogate 100% |
 | held-out physics test | **100%** on 32 unseen arenas (95% CI 89%-100%) (errors: [14.4, 56.1, 58.0, 57.9, 57.5, 14.0, 14.4, 56.6, 56.8, 13.3, 14.1, 56.6, 57.6, 13.1, 57.3, 55.9, 57.2, 55.0, 55.2, 53.9, 55.2, 12.4, 53.8, 53.7, 14.1, 13.7, 55.0, 57.8, 56.2, 13.1, 52.8, 56.5]) |
@@ -17,14 +17,6 @@ Physics error per arena: mm gained away from source (> 6 without first approachi
 
 | round | level | gens | sigma | surrogate | physics val | val errors | test | note |
 |---:|---:|---:|---:|---:|---:|---|---:|---|
-| 164 | 3 | 16400 | 0.024 | 100% | 100% | [41.0, 38.5, 38.2, 41.6, 41.6, 39.7, 36.5, 14.5, 40.5, 13.2, 41.5, 41.7, 14.3, 41.3, 39.3, 40.3, 14.2, 41.6, 39.3, 14.4, 38.4, 42.1, 37.2, 41.9] |  |  |
-| 165 | 3 | 16500 | 0.024 | 100% | 100% | [42.7, 43.2, 42.2, 42.5, 44.7, 43.3, 40.4, 14.5, 40.4, 13.3, 44.3, 44.3, 14.4, 44.2, 42.9, 42.5, 14.2, 43.9, 42.8, 14.4, 42.5, 45.1, 41.0, 43.8] |  |  |
-| 166 | 3 | 16600 | 0.024 | 100% | 100% | [58.0, 61.2, 61.0, 58.3, 60.2, 58.2, 59.9, 14.5, 56.4, 13.3, 59.9, 60.0, 14.4, 57.8, 61.1, 57.8, 14.2, 60.8, 61.4, 14.4, 57.8, 59.7, 59.8, 59.4] |  |  |
-| 167 | 3 | 16700 | 0.024 | 100% | 100% | [46.6, 47.4, 47.6, 46.2, 42.6, 45.5, 48.7, 14.5, 12.8, 13.4, 39.8, 42.0, 14.4, 44.3, 47.9, 44.1, 14.2, 43.2, 46.9, 14.4, 44.7, 42.1, 47.5, 41.5] |  | restart from best |
-| 168 | 3 | 16800 | 0.024 | 100% | 100% | [55.6, 58.8, 58.6, 56.0, 57.3, 56.3, 57.6, 14.5, 54.2, 13.3, 57.9, 57.2, 14.4, 55.1, 58.7, 55.5, 14.2, 58.0, 59.0, 14.4, 56.2, 58.1, 57.4, 56.4] |  |  |
-| 169 | 3 | 16900 | 0.024 | 100% | 96% | [55.6, 57.8, 57.7, 56.3, 56.1, 55.2, 56.8, 14.5, 44.4, 13.3, 56.1, 55.8, 14.4, 57.5, 57.8, 55.6, 14.2, 57.1, 58.0, 14.4, 55.3, 56.2, 56.5, 54.9] |  |  |
-| 170 | 3 | 17000 | 0.024 | 100% | 100% | [43.5, 43.9, 43.3, 44.1, 47.6, 43.6, 40.8, 14.5, 40.8, 13.5, 44.0, 47.9, 14.4, 43.7, 43.4, 43.7, 14.2, 47.5, 45.4, 14.4, 40.7, 44.1, 41.2, 48.1] |  |  |
-| 171 | 3 | 17100 | 0.024 | 100% | 100% | [55.9, 60.3, 60.0, 57.2, 59.9, 57.5, 58.7, 14.5, 12.7, 13.4, 57.6, 59.7, 14.4, 58.3, 60.2, 56.0, 14.2, 60.4, 60.6, 14.4, 55.6, 57.1, 58.5, 59.1] |  | restart from best |
 | 172 | 3 | 17200 | 0.024 | 100% | 100% | [52.7, 54.4, 54.3, 52.6, 53.3, 52.8, 53.3, 14.5, 49.5, 13.3, 52.7, 53.0, 14.4, 54.1, 54.4, 53.0, 14.2, 53.8, 54.7, 14.4, 51.7, 52.8, 53.0, 52.3] |  |  |
 | 173 | 3 | 17300 | 0.024 | 99% | 100% | [50.3, 53.4, 53.1, 51.0, 52.9, 50.6, 51.8, 14.5, 12.8, 13.4, 51.9, 52.8, 14.4, 53.1, 53.3, 52.3, 14.2, 53.5, 53.7, 14.4, 51.7, 51.8, 51.5, 52.2] |  |  |
 | 174 | 3 | 17400 | 0.025 | 100% | 100% | [38.2, 41.0, 40.2, 39.3, 44.0, 40.5, 37.6, 14.5, 39.6, 33.2, 39.6, 44.3, 14.4, 40.2, 40.7, 40.5, 14.2, 44.2, 41.4, 14.4, 37.9, 39.9, 37.0, 44.0] |  |  |
@@ -57,3 +49,11 @@ Physics error per arena: mm gained away from source (> 6 without first approachi
 | 201 | 3 | 20100 | 0.024 | 100% | 100% | [37.4, 37.4, 36.9, 37.7, 41.2, 37.4, 34.5, 14.5, 39.6, 13.3, 39.6, 41.4, 14.4, 38.4, 37.3, 37.0, 14.2, 40.7, 37.1, 14.4, 38.9, 39.0, 34.0, 41.4] |  |  |
 | 202 | 3 | 20200 | 0.024 | 100% | 100% | [57.1, 61.8, 61.6, 58.2, 61.8, 57.9, 60.2, 14.5, 58.3, 13.2, 60.7, 61.7, 14.4, 61.2, 61.8, 57.4, 14.2, 62.3, 62.1, 14.4, 54.9, 60.7, 60.0, 61.2] |  |  |
 | 203 | 3 | 20300 | 0.024 | 100% | 100% | [58.1, 62.0, 61.7, 58.9, 61.8, 59.0, 60.4, 14.5, 51.6, 13.3, 61.4, 61.7, 14.4, 59.7, 61.8, 57.3, 14.2, 62.4, 62.3, 14.4, 58.7, 61.2, 60.2, 61.2] |  | restart from best |
+| 204 | 3 | 20400 | 0.024 | 100% | 100% | [51.9, 53.9, 53.7, 52.1, 52.5, 52.2, 52.8, 14.5, 48.4, 13.1, 53.5, 52.2, 14.4, 50.7, 53.8, 52.0, 14.2, 53.0, 54.2, 14.4, 50.8, 53.5, 52.5, 51.6] |  |  |
+| 205 | 3 | 20500 | 0.024 | 100% | 100% | [46.8, 48.5, 48.8, 47.1, 43.5, 46.5, 49.4, 14.5, 42.3, 13.5, 43.6, 43.2, 14.4, 46.0, 49.1, 45.7, 14.2, 44.9, 47.9, 14.4, 42.3, 45.1, 48.8, 42.1] |  |  |
+| 206 | 3 | 20600 | 0.024 | 100% | 100% | [50.0, 53.5, 53.3, 51.4, 53.0, 52.4, 52.2, 14.5, 38.3, 13.5, 52.1, 52.8, 14.4, 52.6, 53.4, 51.0, 14.2, 53.5, 53.9, 14.4, 50.2, 51.8, 51.9, 52.2] |  |  |
+| 207 | 3 | 20700 | 0.024 | 97% | 100% | [35.6, 45.6, 45.2, 38.1, 47.1, 42.3, 43.3, 14.5, 43.2, 12.9, 45.1, 47.0, 14.3, 45.5, 45.5, 8.7, 14.2, 47.1, 46.2, 14.4, 8.9, 45.1, 43.1, 46.7] |  | restart from best |
+| 208 | 3 | 20800 | 0.024 | 99% | 100% | [43.0, 43.5, 43.5, 42.4, 38.4, 43.5, 44.4, 14.5, 13.1, 13.4, 42.6, 37.8, 14.4, 42.4, 42.9, 43.0, 14.2, 40.0, 42.3, 14.4, 39.9, 39.6, 43.6, 37.3] |  |  |
+| 209 | 3 | 20900 | 0.025 | 100% | 100% | [52.5, 57.5, 57.3, 54.1, 57.7, 54.2, 55.9, 14.5, 53.3, 13.5, 57.3, 57.5, 14.4, 55.5, 57.4, 53.2, 14.2, 58.1, 57.8, 14.4, 55.5, 56.9, 55.6, 57.0] |  |  |
+| 210 | 3 | 21000 | 0.024 | 100% | 100% | [50.1, 51.7, 51.2, 47.8, 52.0, 47.9, 49.8, 14.5, 48.2, 13.3, 51.1, 52.0, 14.4, 51.2, 51.3, 47.2, 14.2, 52.3, 51.6, 14.4, 47.4, 51.3, 49.7, 51.5] |  |  |
+| 211 | 3 | 21100 | 0.024 | 100% | 100% | [52.9, 55.4, 55.4, 53.3, 52.2, 53.0, 55.2, 14.5, 50.7, 13.4, 53.9, 52.0, 14.4, 54.7, 55.5, 52.9, 14.2, 53.3, 55.5, 14.4, 52.5, 55.4, 55.0, 50.9] |  | restart from best |

diff --git a/projects/09_flylab/training/TRAINING.md b/projects/09_flylab/training/TRAINING.md
@@ -1,15 +1,15 @@
 # FlyLab brains — continuous training log
 
-*Auto-generated by `train_brains.py`, last updated 2026-10-14T12:07:45.*
+*Auto-generated by `train_brains.py`, last updated 2026-10-14T21:08:26.*
 
 Every skill has its own brain and its own training process: surrogate ES rounds, physics validation in MuJoCo, keep-the-best selection, and a held-out physics test that is never used for selection. See each skill's report for its full round-by-round history. Mastery is progressive: passing a level (100% physics validation, >=95% surrogate) doubles the validation and test arena sets; a brain is **optimal** once it holds up at level 3 (>=95% of 24 validation arenas) AND scores >=90% on the 32 held-out test arenas. Test columns show 95% Wilson confidence intervals.
 
 | skill | rounds | ES generations | physics runs | surrogate | physics val | **physics test** | status |
 |---|---:|---:|---:|---:|---:|---:|---|
 | [Walk forward](walk_forward/REPORT.md) | 92 | 9200 | 2158 | 100% | 100% of 24 | 100% of 32 (CI 89-100%) | **optimal** |
-| [Turn in place](turn/REPORT.md) | 409 | 40900 | 10062 | 100% | 100% of 24 | 97% of 32 (CI 84-99%) | **optimal** |
+| [Turn in place](turn/REPORT.md) | 437 | 43700 | 10734 | 100% | 100% of 24 | 97% of 32 (CI 84-99%) | **optimal** |
 | [Go to a location](goto/REPORT.md) | 86 | 8600 | 1950 | 100% | 100% of 24 | 100% of 32 (CI 89-100%) | **optimal** |
 | [Find food by smell](odor_seek/REPORT.md) | 94 | 9400 | 1590 | 100% | 100% of 24 | 100% of 32 (CI 89-100%) | **optimal** |
-| [Escape a bad smell](odor_avoid/REPORT.md) | 444 | 44400 | 7962 | 97% | 100% of 24 | 97% of 32 (CI 84-99%) | **optimal** |
+| [Escape a bad smell](odor_avoid/REPORT.md) | 473 | 47300 | 8658 | 97% | 100% of 24 | 97% of 32 (CI 84-99%) | **optimal** |
 | [Walk toward light](light_seek/REPORT.md) | 275 | 27500 | 3352 | 100% | 100% of 24 | 100% of 32 (CI 89-100%) | **optimal** |
-| [Hide from light](light_avoid/REPORT.md) | 203 | 20300 | 5144 | 100% | 100% of 24 | 100% of 32 (CI 89-100%) | **optimal** |
+| [Hide from light](light_avoid/REPORT.md) | 211 | 21100 | 5336 | 100% | 100% of 24 | 100% of 32 (CI 89-100%) | **optimal** |
